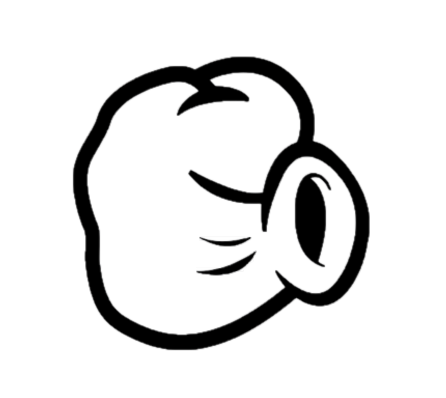
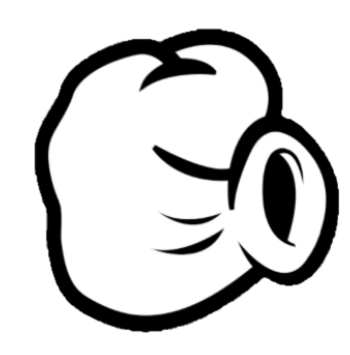
changed the rock2 to rock

Changed region(s): [[0.0857, 0.062, 0.9714, 0.9606]]

diff --git a/index.html b/index.html
@@ -22,14 +22,16 @@
 
         <div class="intro">
             <h1>Rock, Paper, Scissors!</h1>
+           <br><p></p>
+           <br>
             <button>Let's Play</button>
         </div>
 
         <div class="match fadeOut"> 
             <h2 class="winner">Choose an option</h2>
             <div class="hands">
-                <img class="player-hand" src="./assets/rock2.png" alt="">
-                <img class="computer-hand" src="./assets/rock2.png" alt="">
+                <img class="player-hand" src="./assets/rock.png" alt="">
+                <img class="computer-hand" src="./assets/rock.png" alt="">
             </div>
             <div class="options">
                 <button class="rock">rock</button>

diff --git a/style.css b/style.css
@@ -57,6 +57,7 @@ section{
     left: 50%;
     transform: translate(-50%, -50%); 
     transition: opacity 0.5s ease 0.5s ;
+
 }
 .winner{
     color: rgb(224, 224, 224);
@@ -68,11 +69,14 @@ section{
     display: flex;
     justify-content: space-around;
     align-items: center;
+   
 }
 
 .player-hand{
     transform: rotateY(180deg);
+    
 }
+
 /* to  fade out */
 div.fadeOut{
     opacity: 0;
